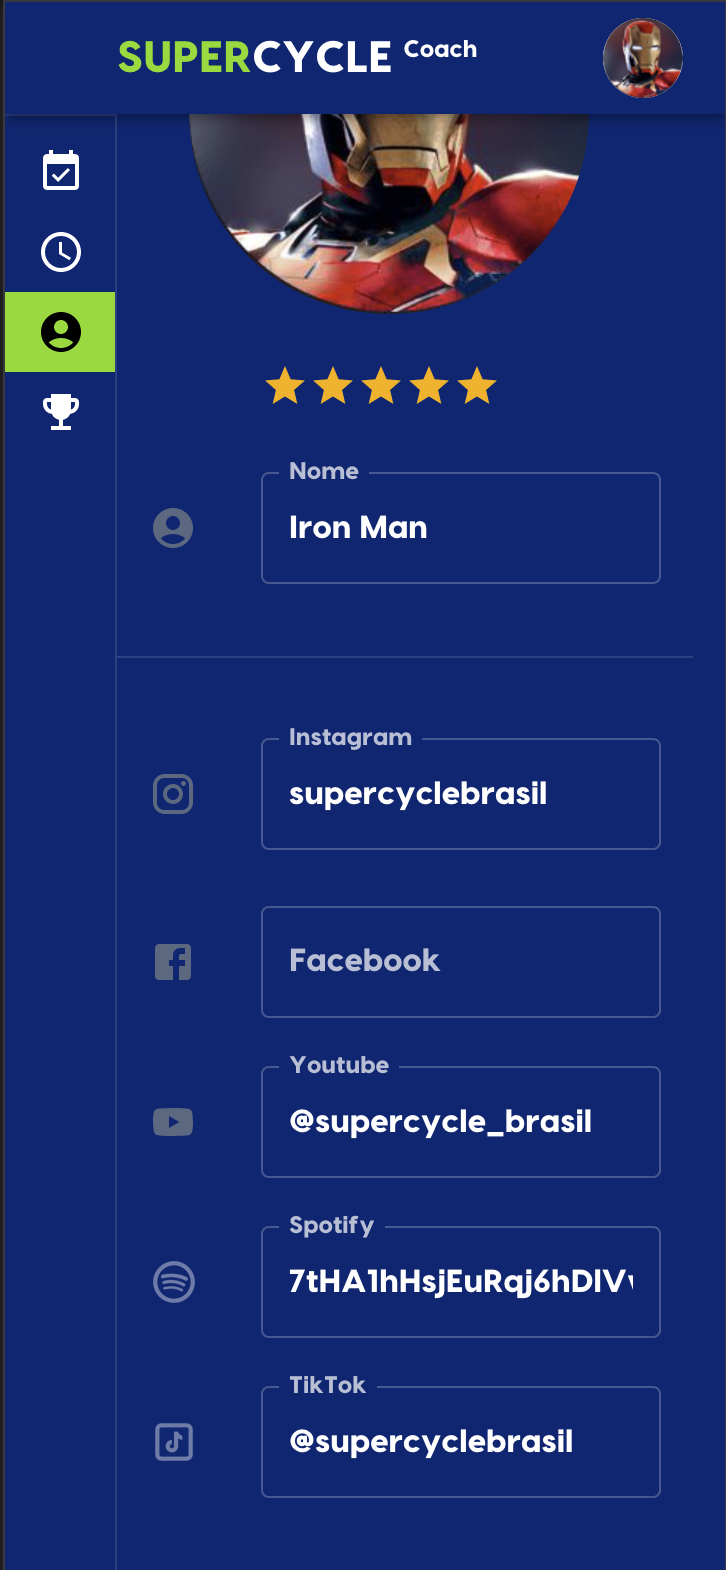
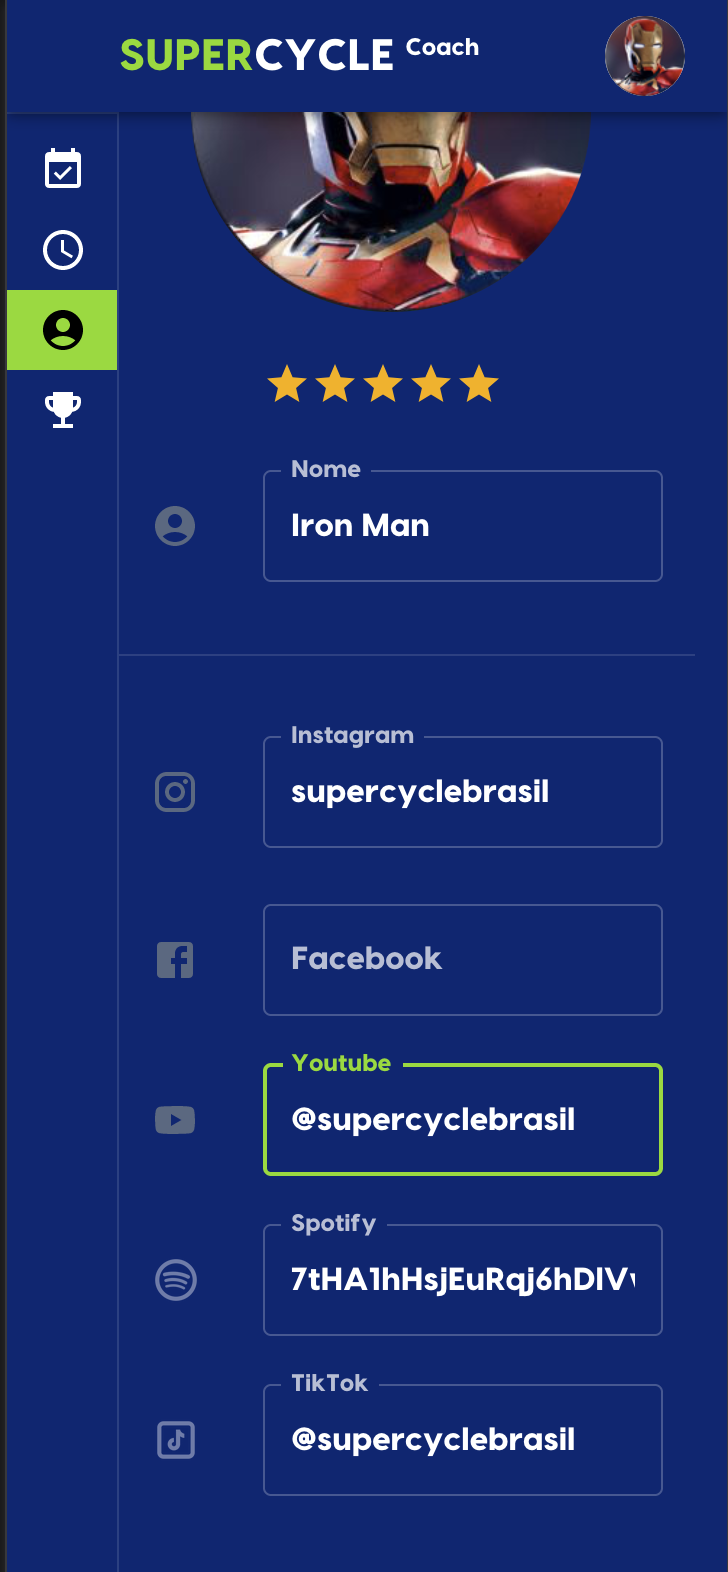
i

diff --git a/profile/release/93/release.md b/profile/release/93/release.md
@@ -1,15 +1,47 @@
 # #93 
 
 ### Como Coach, quero poder adicionar meus canais de mídia social ao meu perfil para aumentar o alcance de meus Riders
+#
+Você pode adicionar seus links de mídia social na página de perfil. Clique no ícone do perfil no menu para ir até lá.
 
----
+<img src="Screenshot0.png" width="50" title="Edit">
 
+Os canais disponíveis são:
 
+- Instagram
+- Facebook
+- YouTube
+- Lista de reprodução do Spotify
+- Tik tok
+
+Somente quando você preencher um valor o link ficará visível para os Riders. 
+Assim, você pode escolher quais canais deseja usar e quais não.
+
+Você só precisa preencher o "handle" do perfil. Exemplos:
+
+```
+   (Veja as screenshots abaixo)
+   
+   Instagram url : https://www.instagram.com/supercyclebrasil/ 
+   Apenas adicionar : supercyclebrasil
+   
+   Facebook url : https://www.facebook.com/supercyclebrasil 
+   Apenas adicionar : supercyclebrasil
+   
+   Youtube url : https://www.youtube.com/@supercyclebrasil
+   Apenas adicionar : @supercyclebrasil
+   
+   Spotify url : https://open.spotify.com/playlist/7tHA1hHsjEuRqj6hDlVwLL
+   Apenas adicionar : 7tHA1hHsjEuRqj6hDlVwLL
+   
+   Tik Tok url : https://www.tiktok.com/@supercyclebrasil
+   Apenas adicionar : @supercyclebrasil
+```
 
 <table>
  <tr> 
-    <td> **Coach** </td>
-    <td> **Rider** </td>
+    <td> <b>Coach</b> </td>
+    <td> <b>Rider</b> </td>
  </tr>
  <tr>
     <td><img src="Screenshot1.png" width="300" title="Edit"></td>
